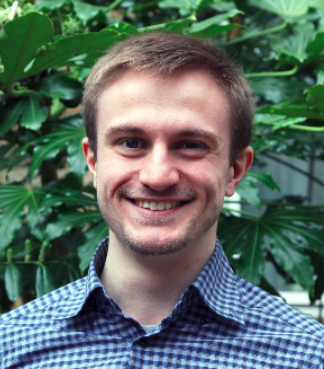
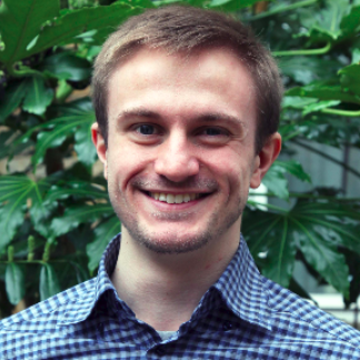
fix resolution in photos for luca and francesco

diff --git a/_includes/projects.html b/_includes/projects.html
@@ -60,7 +60,7 @@
                     </a>
                     <div class="projects-caption">
                         <h4>MSCA ITN e-LADDA</h4>
-                        <p class="text-muted">Aim of this project is to develop a cognitive architecture for a robotic tutor to teach linguistic concepts to pre-school children using robot-supported embodiment approaches.</p>
+                        <p class="text-muted">Develop a cognitive architecture for a robotic tutor to teach linguistic concepts to pre-school children using robot-supported embodiment approaches.</p>
                     </div>
                 </div>
 
